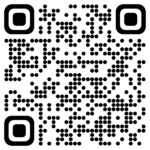
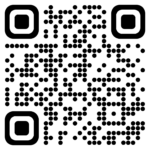
indes.html code added

diff --git a/index.html b/index.html
@@ -151,7 +151,7 @@ window._wpemojiSettings = {"baseUrl":"https:\/\/s.w.org\/images\/core\/emoji\/15
 
 
 <div class="wp-block-column is-layout-flow wp-block-column-is-layout-flow">
-<figure class="wp-block-image alignleft size-full is-resized"><img width="1015" height="1015" src="https://rangarajan604s.github.io/Webside/wp-content/uploads/2024/07/qr-code.png" alt="" class="wp-image-209" style="width:110px;height:auto" srcset="https://rangarajan604s.github.io/Webside/wp-content/uploads/2024/07/qr-code.png 1015w, https://rangarajan604s.github.io/Webside/wp-content/uploads/2024/07/qr-code-300x300.png 300w, https://rangarajan604s.github.io/Webside/wp-content/uploads/2024/07/qr-code-150x150.png 150w, https://rangarajan604s.github.io/Webside/wp-content/uploads/2024/07/qr-code-768x768.png 768w" sizes="(max-width: 1015px) 100vw, 1015px"></figure>
+<figure class="wp-block-image alignleft size-full is-resized"><img width="1023" height="1023" src="https://rangarajan604s.github.io/Webside/wp-content/uploads/2024/07/Qr-code.png" alt="" class="wp-image-214" style="width:110px;height:auto" srcset="https://rangarajan604s.github.io/Webside/wp-content/uploads/2024/07/Qr-code.png 1023w, https://rangarajan604s.github.io/Webside/wp-content/uploads/2024/07/Qr-code-300x300.png 300w, https://rangarajan604s.github.io/Webside/wp-content/uploads/2024/07/Qr-code-150x150.png 150w, https://rangarajan604s.github.io/Webside/wp-content/uploads/2024/07/Qr-code-768x768.png 768w" sizes="(max-width: 1023px) 100vw, 1023px"></figure>
 </div>
 </div>
 </div>
